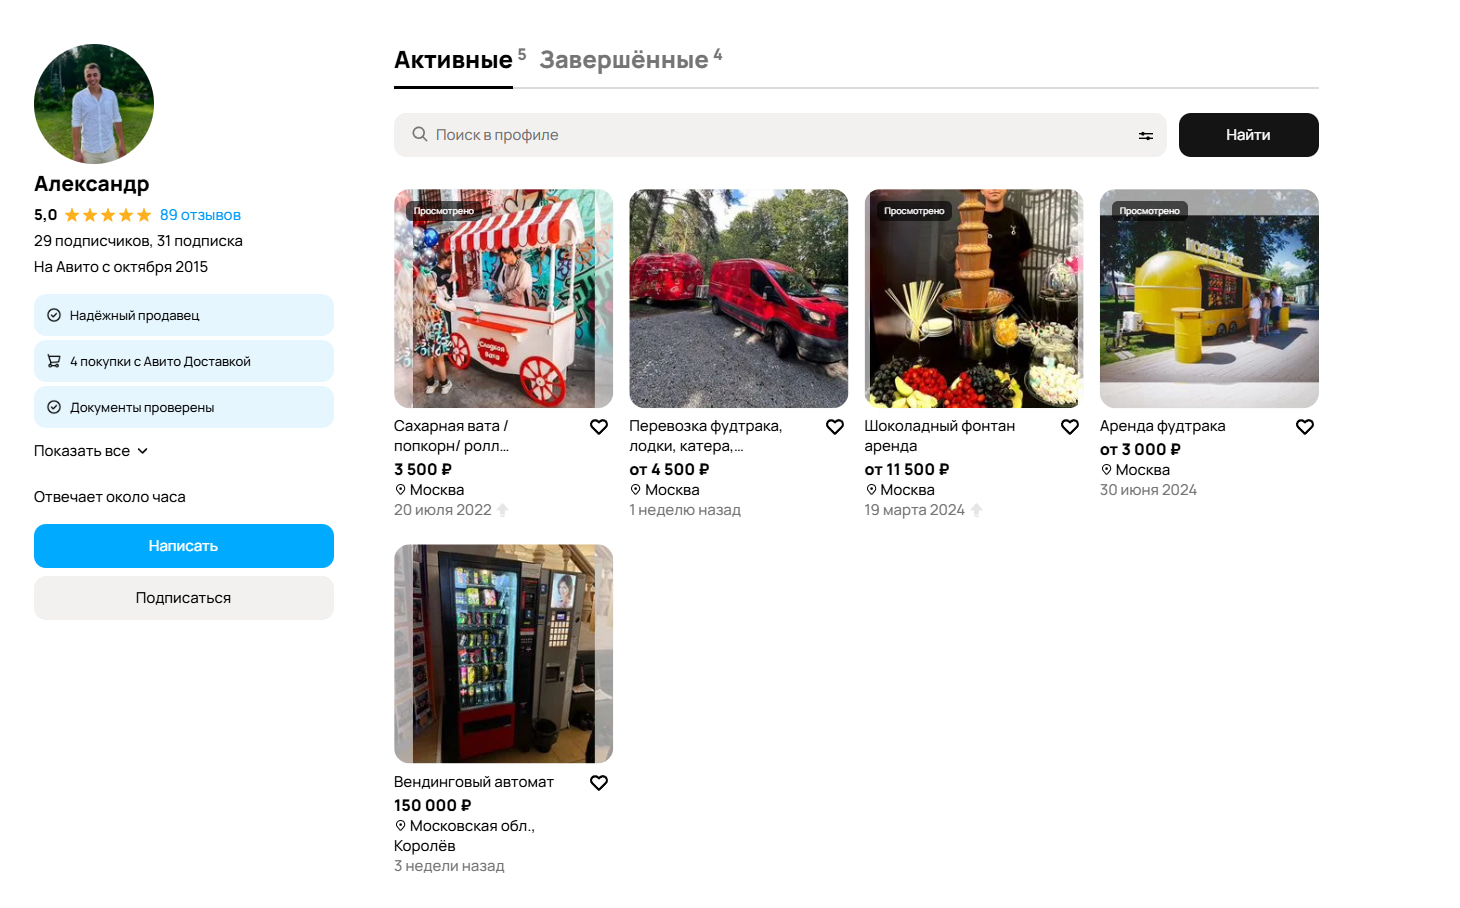
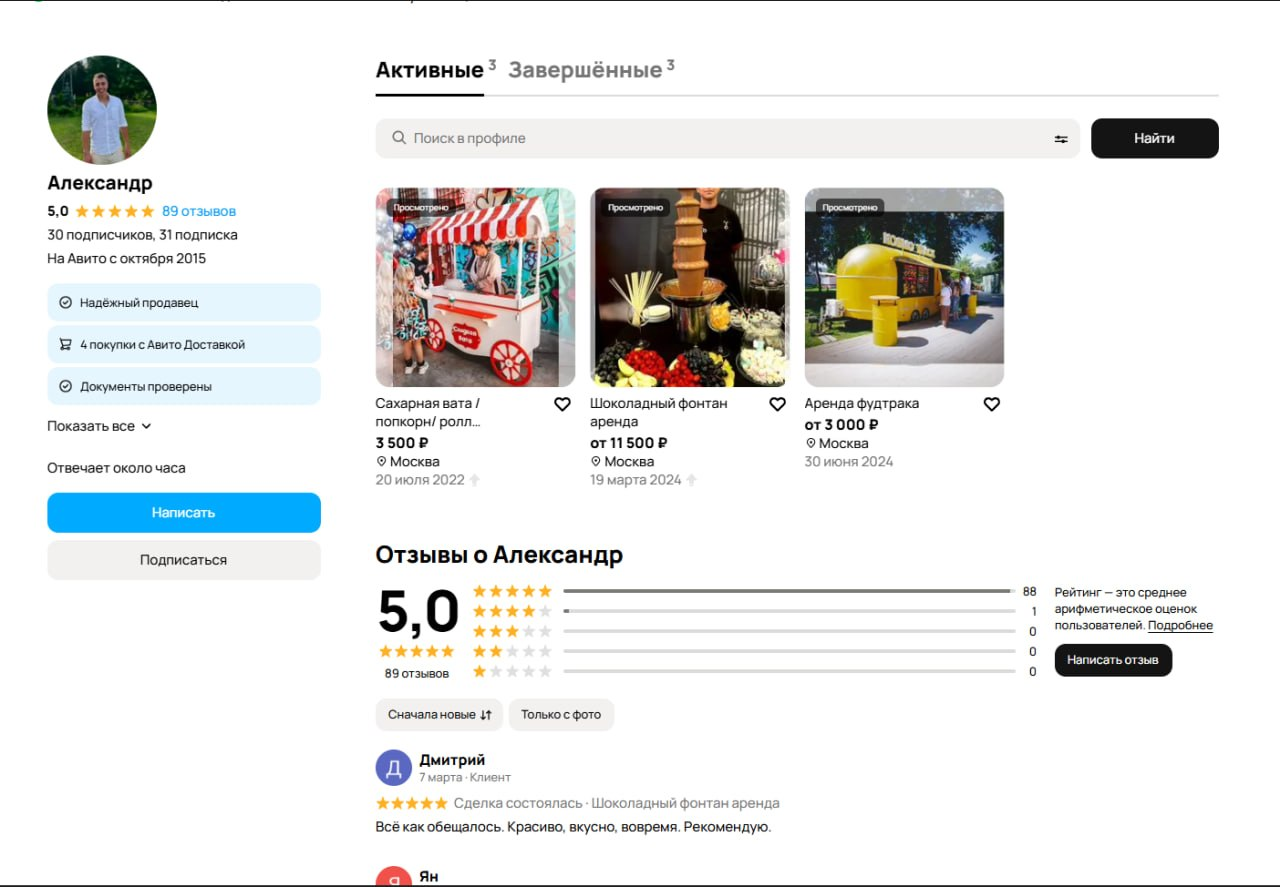
update avito contact screenshot

Changed region(s): [[0.0, 0.0609, 0.9688, 1.0], [0.0, 0.0304, 0.1875, 0.3044]]

diff --git a/web/src/components/sections/ContactPlaceholderSection.test.tsx b/web/src/components/sections/ContactPlaceholderSection.test.tsx
@@ -30,6 +30,8 @@ test('renders contacts as a split canvas with direct details and an Avito screen
 
   expect(visualSlot).toHaveAttribute('data-contact-visual', 'avito');
   expect(avitoImage).toHaveAttribute('src', '/images/contact/avito.jpg');
+  expect(avitoImage).toHaveAttribute('width', '1280');
+  expect(avitoImage).toHaveAttribute('height', '887');
 
   for (const action of siteConfig.homepage.contact.actions) {
     const link = sectionQueries.getByRole('link', { name: action.label });
@@ -58,10 +60,11 @@ test('opens the Avito screenshot in a true fullscreen dialog from the contact vi
   expect(dialogQueries.queryByText('Скриншот Avito')).not.toBeInTheDocument();
   expect(overlay).toHaveAttribute('data-dialog-state', 'open');
   expect(overlay.parentElement).toBe(document.body);
-  expect(dialogQueries.getByRole('img', { name: 'Скриншот профиля Праздник каждый день на Avito' })).toHaveAttribute(
-    'src',
-    '/images/contact/avito.jpg',
-  );
+  const dialogImage = dialogQueries.getByRole('img', { name: 'Скриншот профиля Праздник каждый день на Avito' });
+
+  expect(dialogImage).toHaveAttribute('src', '/images/contact/avito.jpg');
+  expect(dialogImage).toHaveAttribute('width', '1280');
+  expect(dialogImage).toHaveAttribute('height', '887');
 
   fireEvent.keyDown(window, { key: 'Escape' });
 

diff --git a/web/src/components/sections/ContactPlaceholderSection.tsx b/web/src/components/sections/ContactPlaceholderSection.tsx
@@ -7,8 +7,8 @@ import styles from './ContactPlaceholderSection.module.css';
 
 const AVITO_SCREENSHOT_SRC = '/images/contact/avito.jpg';
 const AVITO_SCREENSHOT_WEBP_SRC = '/images/contact/avito.webp';
-const AVITO_SCREENSHOT_WIDTH = 1460;
-const AVITO_SCREENSHOT_HEIGHT = 908;
+const AVITO_SCREENSHOT_WIDTH = 1280;
+const AVITO_SCREENSHOT_HEIGHT = 887;
 
 type ContactIconKind = 'telegram' | 'whatsapp' | 'avito';
 
